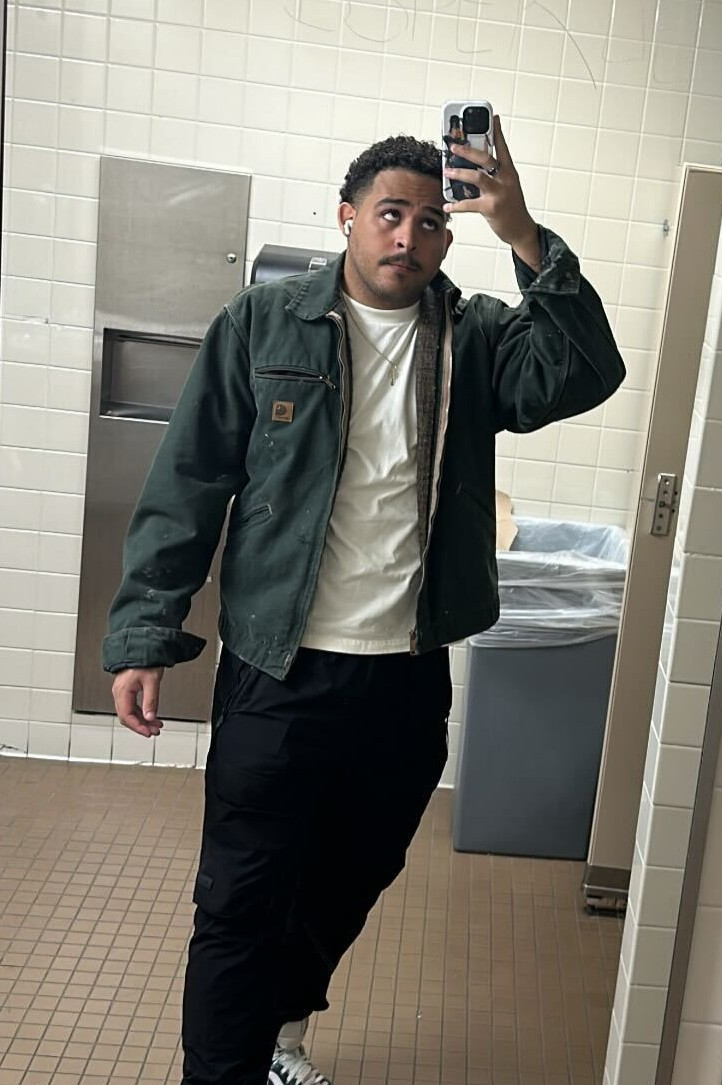
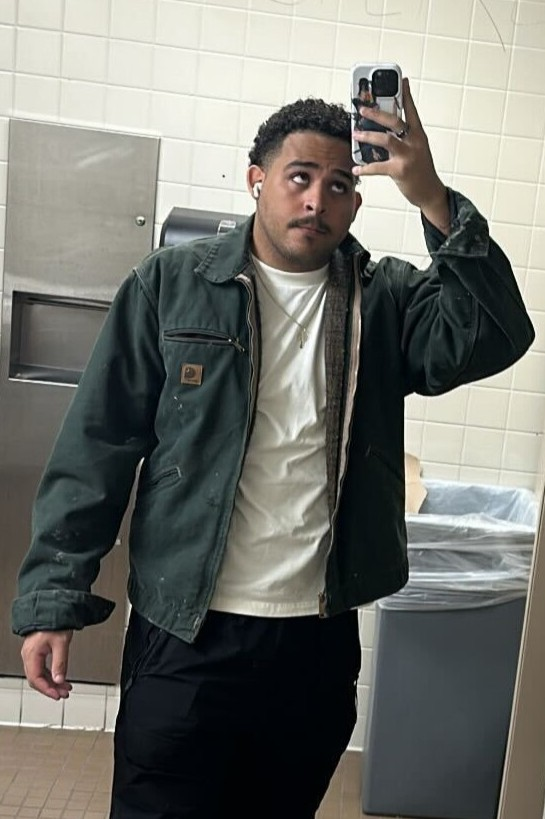
Added team members

diff --git a/src/app/updated/about/_components/OurTeam.tsx b/src/app/updated/about/_components/OurTeam.tsx
@@ -26,6 +26,27 @@ const TEAM = [
     position: "Social Media Chair",
     contact: "",
   },
+  {
+    name: "Raffi Uddin",
+    src: "/team/rafiuddin.jpg",
+    bio: "Hey, I love playing soccer and learning more about the world. 🤙",
+    position: "Photographer",
+    contact: "",
+  },
+  {
+    name: "Omar Chowdhurry",
+    src: "/team/omarchowdhurry.jpg",
+    bio: "I'm a sophomore majoring in Computer Science.",
+    position: "Secretary",
+    contact: "",
+  },
+  {
+    name: "Lydia Zheng",
+    src: "/team/lydiazheng.png",
+    bio: "Hi, I'm Lydia a computer science major student at Hunter College! I am passionate about making creative projects",
+    position: "Graphic Designer",
+    contact: "",
+  },
 ];
 
 export default function OurTeam() {

diff --git a/src/components/ui/NavMenu.tsx b/src/components/ui/NavMenu.tsx
@@ -107,7 +107,7 @@ export default function NavMenu() {
         </div>
         <aside className="flex items-center gap-4">
           <Dialog>
-            <DialogTrigger>
+            <DialogTrigger asChild>
               <button
                 className={cn(
                   "px-5 py-2 rounded-xl text-white cursor-pointer hover:brightness-110 hover:scale-105 transition-all duration-300 ease-in-out",
